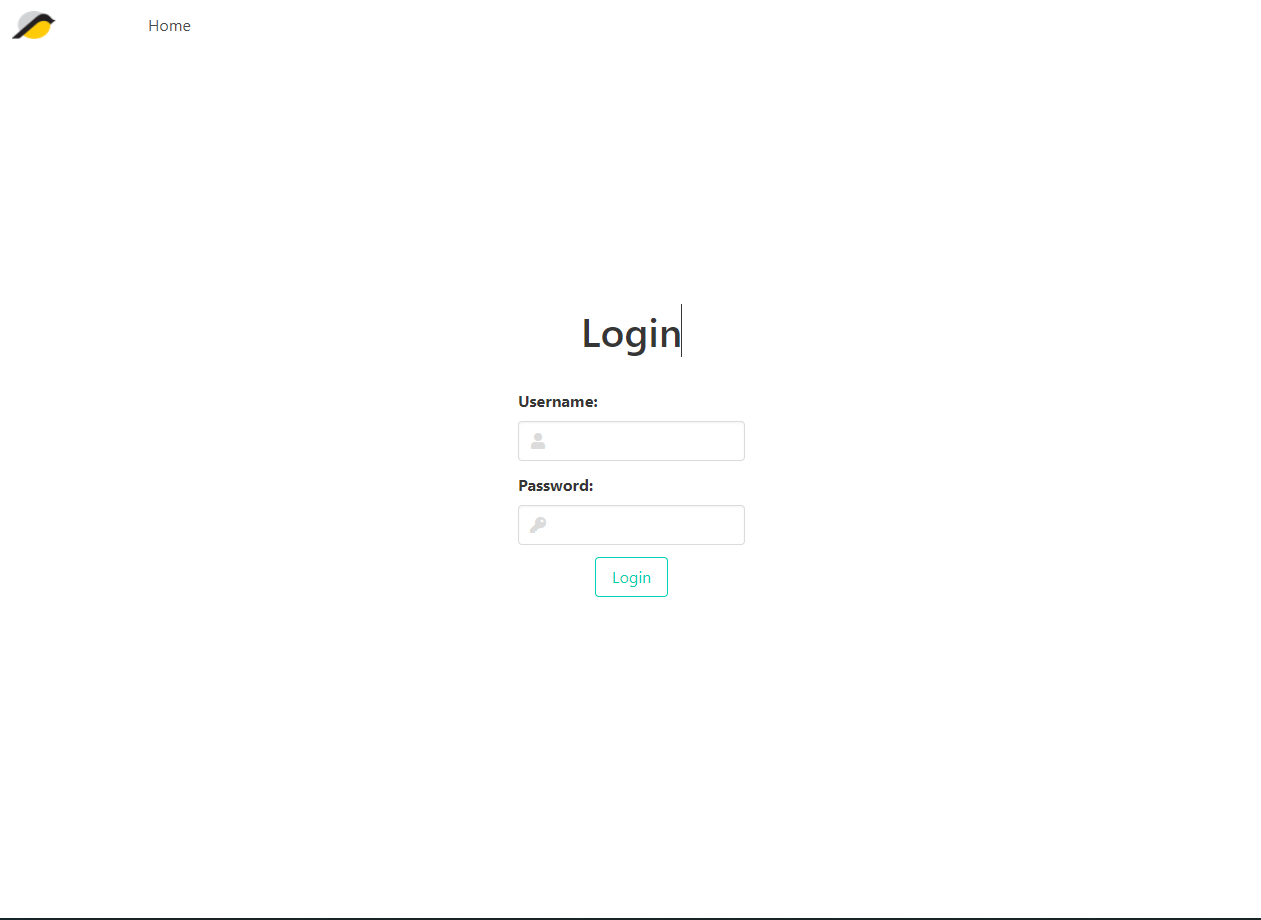
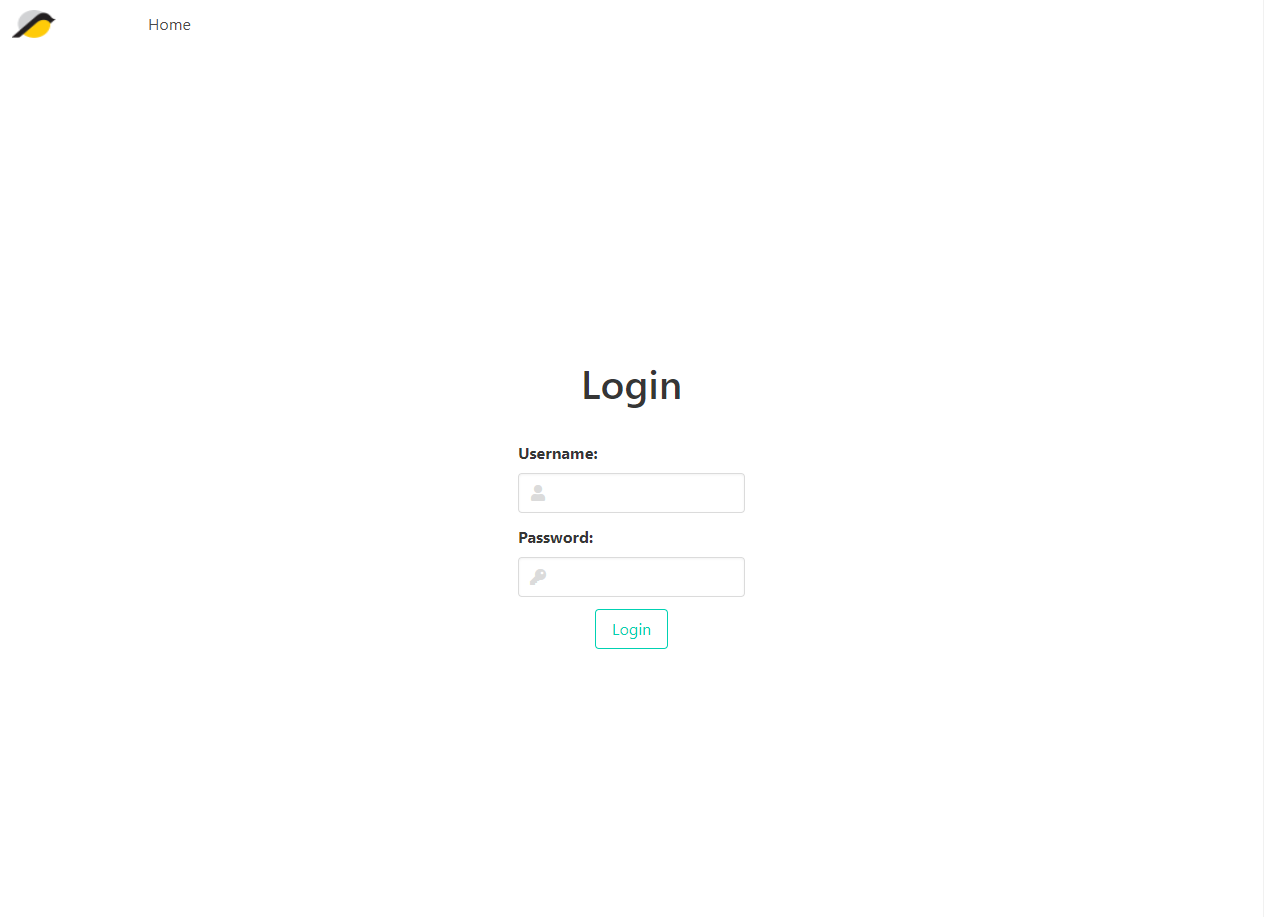
updated media file to properly prview project

Changed region(s): [[0.4021, 0.3359, 0.5567, 0.7023], [0.1237, 0.0, 0.1546, 0.0305]]

diff --git a/README.MD b/README.MD
@@ -1,9 +1,34 @@
 # BayaWeb
 
-### simple authorization system for bayaweb   
+### simple authorization system for bayaweb       
+#
+> note: this application has two versions which you can check out to their branches:
+- [GUI Based branch](https://github.com/mrRamezanzad/bayaweb/tree/frontend)
+- [API Based branch](https://github.com/mrRamezanzad/bayaweb/tree/main)
+---
 > note: in order for app to work make a `.env` file and set application configs there.  
 > alterntive to that you may use `./configs/config.dev.js` or `./configs/config.prod.js` files.
+## Techs: 
+
+- express
+- express-validator
+- JWT, Session & Cookies
+- mongoDB & mongoose
+
+## Login Section
+
+![login page](screenshots/login.png)
+
+
+## Dashboard
+this dashboard is used to:
+- view all users.
+![dashboard](./screenshots/dashboard.png)
+- create new user. 
+![dashboard](./screenshots/add-user.png)
+- update selected user.
+![dashboard](./screenshots/edit-user.png)
+- delete unwanted user.
+![dashboard](./screenshots/delete-user.png)
 ---
-> ## note:
-> this application has two versions which you can see them by checking out to their commits.
-> I know I should have put them in different branches but though i forgot
+> ### Thank you for your time. ❤ XOXO 
